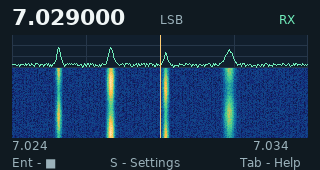
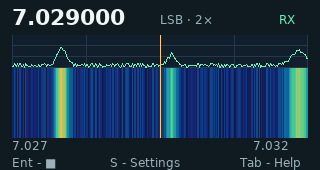
Highlight Radio zoom in README and document Icom remote ports

diff --git a/docs/USER_GUIDE.md b/docs/USER_GUIDE.md
@@ -29,7 +29,7 @@ Connect the Cardputer to a network that can reach the radio and enable the radio
 For manual installation, download the `.deb` from [GitHub Releases](https://github.com/unagisan69/ICOMzero/releases), then install it on the Cardputer.
 
 ```sh
-sudo apt install ./icomzero_0.16.5-1_arm64.deb
+sudo apt install ./icomzero_0.16.6-1_arm64.deb
 ```
 
 Open **ICOMzero** from APPLaunch after installation.
@@ -155,7 +155,7 @@ sudo apt install build-essential python3-pil python3-numpy fonts-dejavu-core
 make check
 make test
 make package
-sudo apt install ./build/icomzero_0.16.5-1_arm64.deb
+sudo apt install ./build/icomzero_0.16.6-1_arm64.deb
 ```
 
 Use `make package APPBUILDER=/path/to/AppBuilder` for another checkout location. The package includes a foreground APPLaunch entry and declares its Python, Pillow, NumPy, font, ALSA, and PipeWire dependencies.
@@ -175,3 +175,7 @@ The radio capability snapshot is pinned in `app/radios.json`. Regenerate it with
 ## Credits
 
 The Icom LAN and Kenwood KNS/RTP implementations were developed using [wfview](https://github.com/wf-group/wfview/tree/8e4172c18bddc2efc6ba93fdbd33736ab0939bdd) as a reference, including its credential substitution table. Packaging uses [CardputerZero AppBuilder](https://github.com/CardputerZero/AppBuilder). ICOMzero is distributed under the GNU General Public License version 3. See [LICENSE](../LICENSE) and the [changelog](../CHANGELOG.md).
+
+### IC-7300MK2 access from outside your LAN
+
+With the default radio port settings, forward **UDP 50001** (control), **UDP 50002** (serial/CAT) and **UDP 50003** (audio) to the radio’s reserved LAN address, preserving the same external/internal port numbers. Spectrum data travels over CAT in ICOMzero; a separate scope-port forward is not used. Set the radio’s default gateway correctly, enable Network Control and use your public IP or hostname in the Remote radio profile. A routed VPN is an alternative to forwarding the radio ports. See the [Icom basic manual, Network settings](https://www.icomeurope.com/wp-content/uploads/2026/02/IC-7300MK2_ENG_IM_Basic_1.pdf).

diff --git a/README.md b/README.md
@@ -42,7 +42,7 @@ Use **Settings → Check for updates** for the latest stable GitHub release. The
 For manual installation, download the ARM64 package from [GitHub Releases](https://github.com/unagisan69/ICOMzero/releases/latest). Close ICOMzero before installing:
 
 ```sh
-sudo apt install ./icomzero_0.16.5-1_arm64.deb
+sudo apt install ./icomzero_0.16.6-1_arm64.deb
 ```
 
 After an update, fully close and reopen the app to load the new version. [Update details →](docs/USER_GUIDE.md#app-settings-and-updates)
@@ -62,7 +62,7 @@ After an update, fully close and reopen the app to load the new version. [Update
 ### 📻 Radio listening & tuning
 
 - **Direct network audio** through the Cardputer speaker, with saved volume and mute.
-- **Live spectrum and waterfall**, using the radio's scope span and range.
+- **Live spectrum and waterfall**, with **1× / 2× / 4× / 8× zoom** centered on the tuned frequency. Use **Fn+F / Fn+X** to zoom in/out; 1× keeps the original full view.
 - **Hold-to-tune controls**, band presets and per-radio **1000 / 500 / 100 Hz** steps.
 - **USB, LSB, CW and CW-R** mode selection; band presets preserve native CW modes.
 - **Noise reduction** toggle and **antenna-tuner control** on models that support them.
